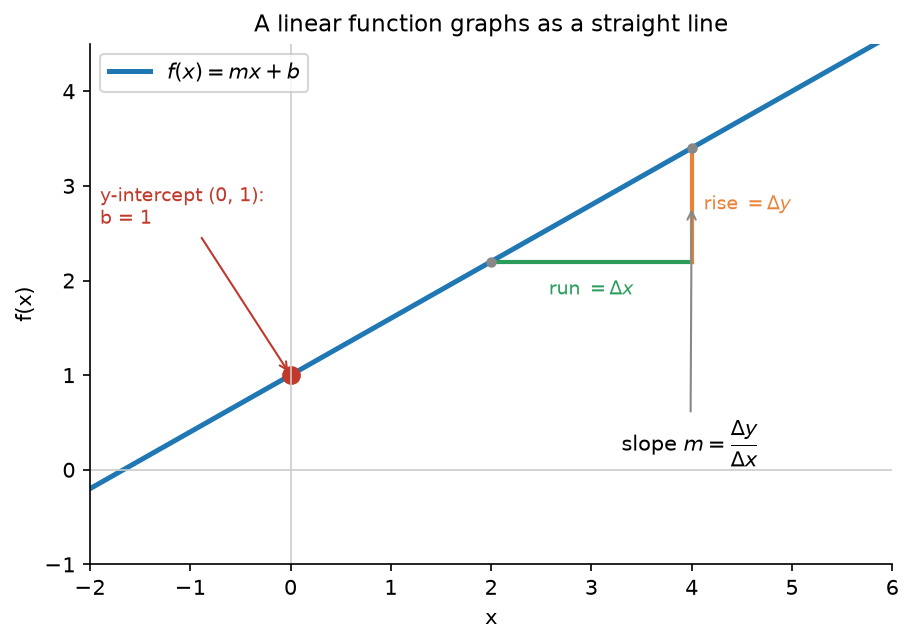
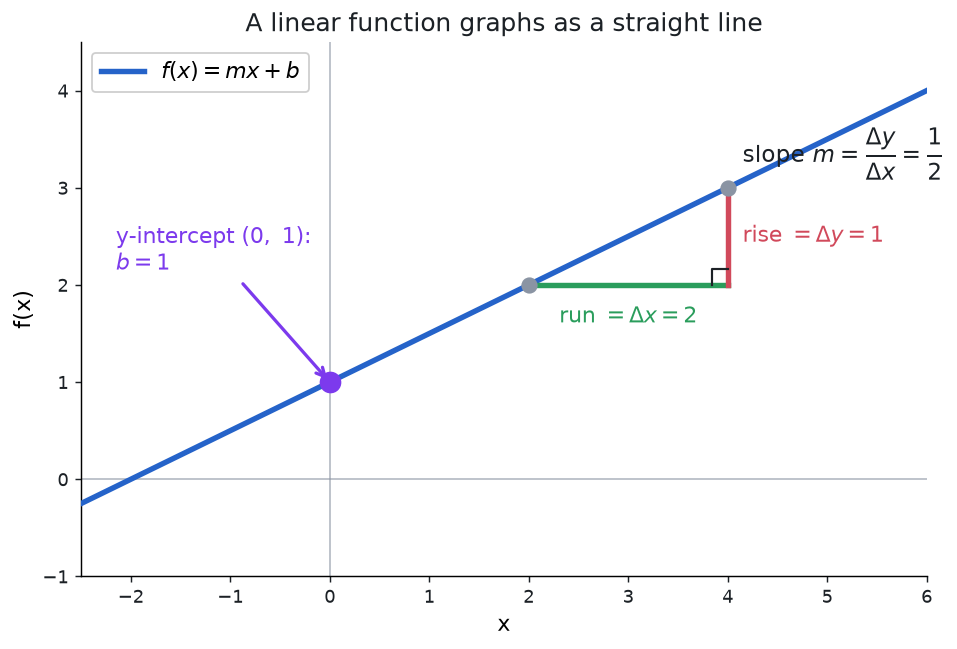
Fix confusing linear-slope-intercept diagram: remove dangling grey line
The old figure had a stray grey vertical line hanging from the upper triangle
point down past the run to ~y=0.8 (not reaching the axis, not the rise),
which visually inflated/ambiguated the rise and stranded the slope label.
The slope triangle itself was mathematically fine.

Regenerated with the house palette on the clean line f(x)=0.5x+1: y-intercept
(0,1), slope triangle on (2,2)-(4,3) with run=2, rise=1, right-angle marker,
and the slope formula 1/2 placed beside the triangle. Updated alt text to the
concrete figure.

diff --git a/quartz/content/linear-functions.md b/quartz/content/linear-functions.md
@@ -43,7 +43,7 @@ In the standard sense, a linear function has degree exactly 1 (a nonzero slope).
 
 When graphed, a linear function will create a straight line.
 
-![A linear function f(x) = mx + b graphed as a straight line, with the y-intercept b marked and a rise-over-run triangle illustrating the slope m](./media/linear-slope-intercept.png)
+![The line f(x) = mx + b with b = 1, drawn through its y-intercept at (0, 1), which is marked with a dot. A rise-over-run triangle sits on the line between the points (2, 2) and (4, 3): a green horizontal run of delta x = 2 and a red vertical rise of delta y = 1 meet at a right angle, giving slope m = delta y over delta x = 1/2](./media/linear-slope-intercept.png)
 
 ## Linear Equation Forms
 